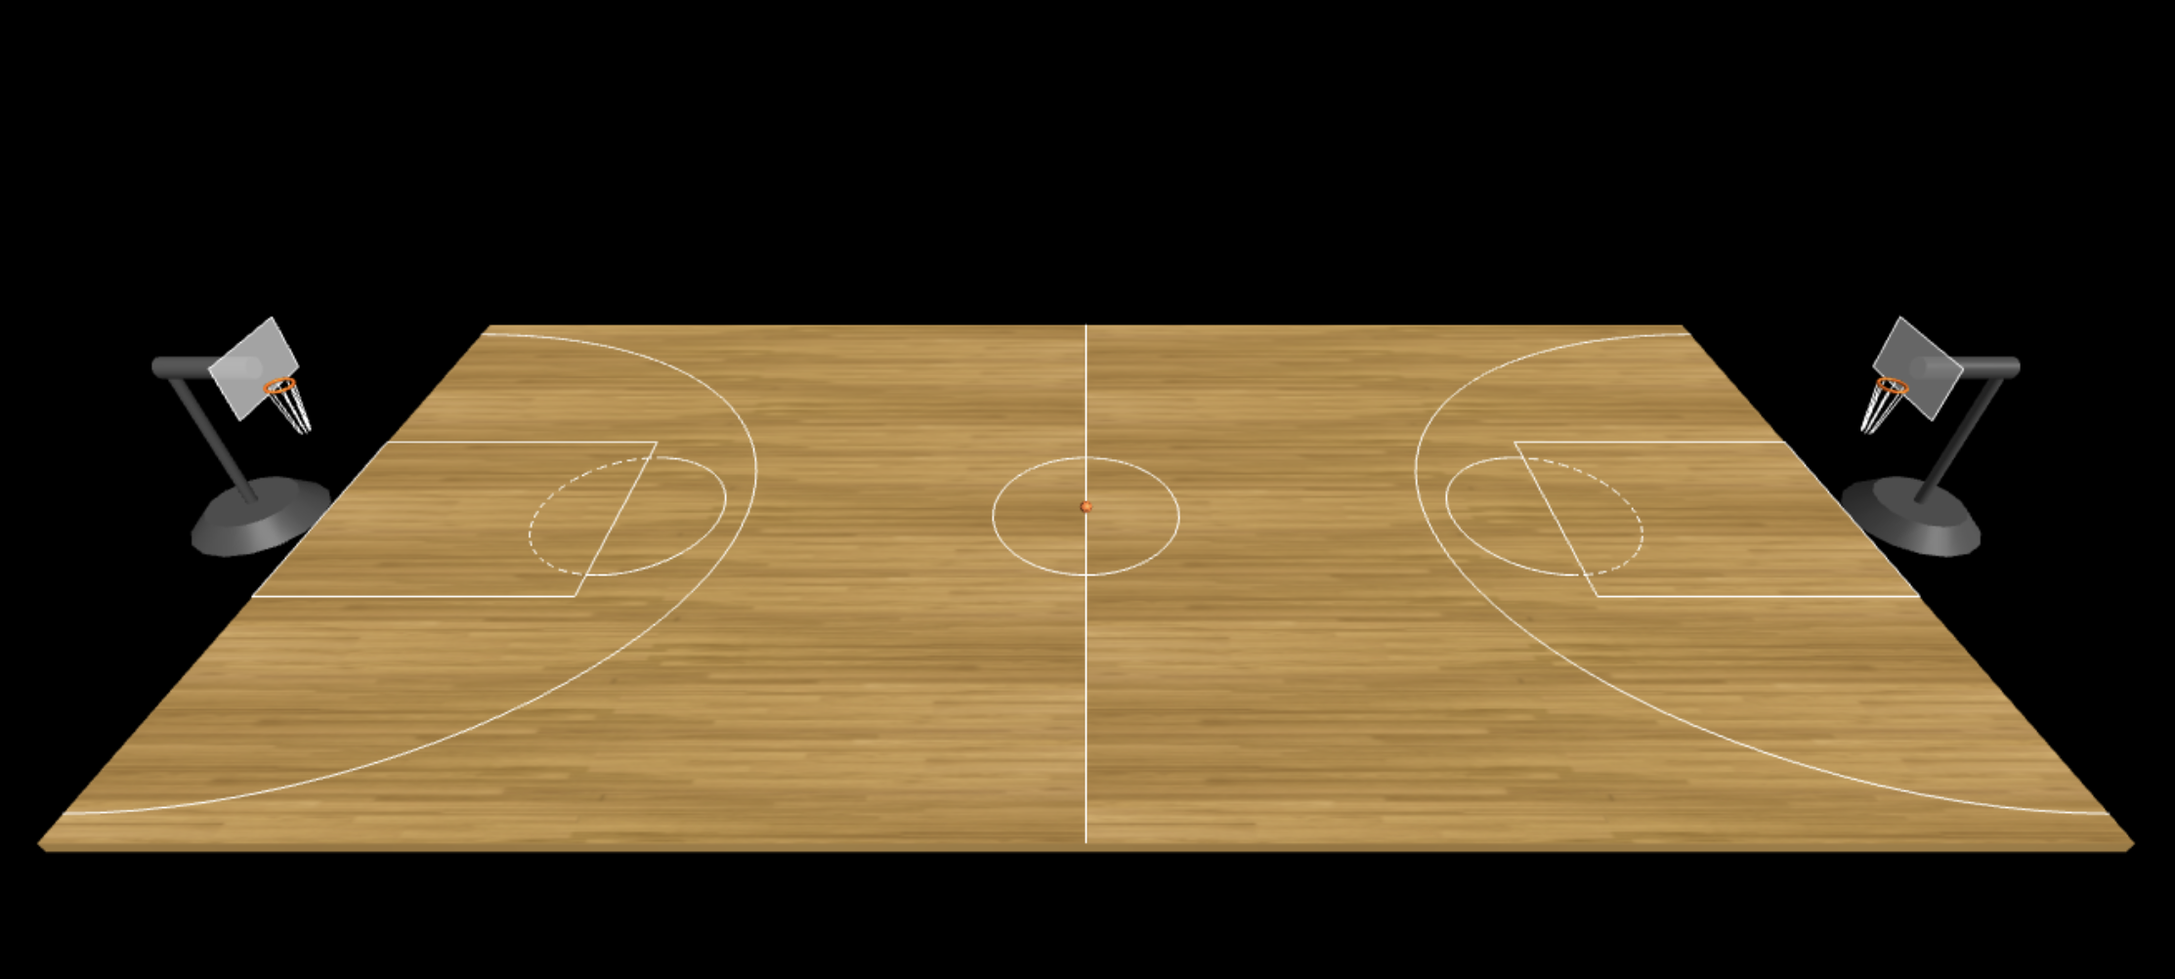
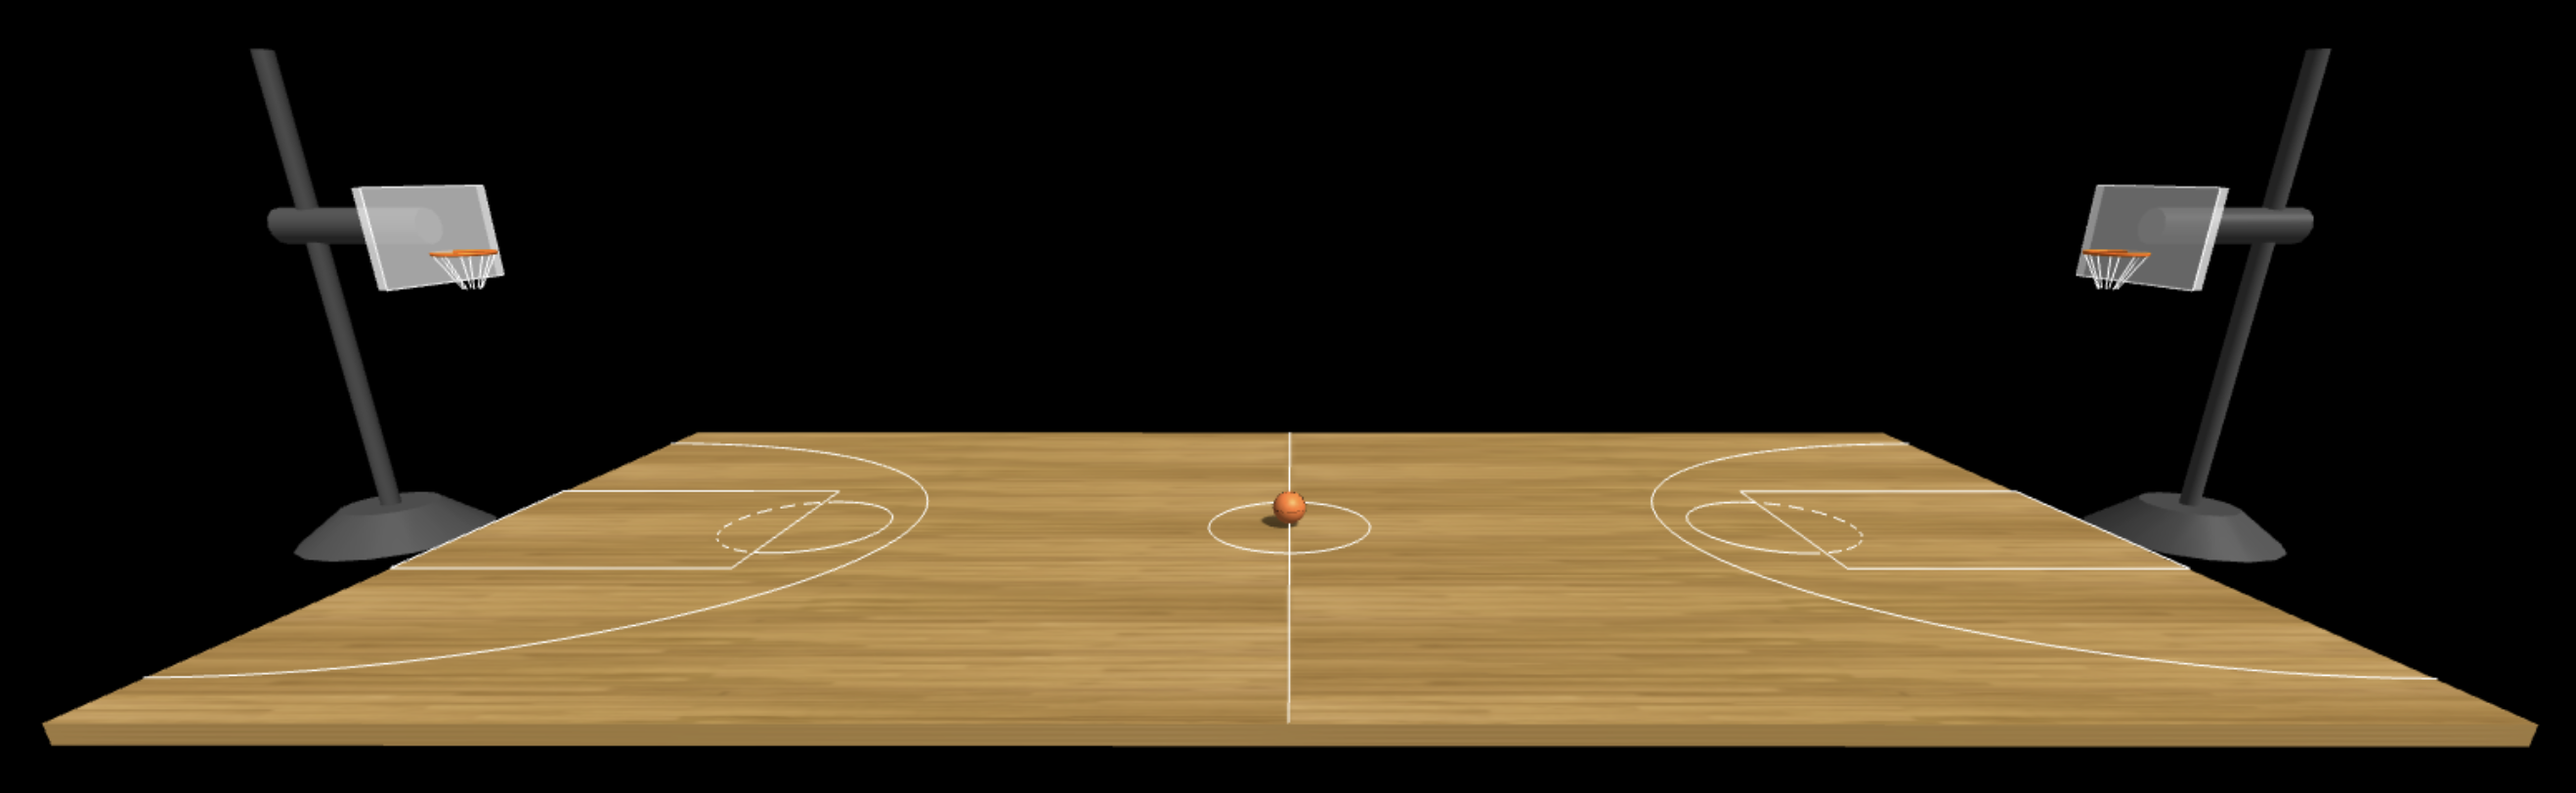
updated code

diff --git a/src/hw5.js b/src/hw5.js
@@ -41,7 +41,7 @@ function degrees_to_radians(degrees) {
 // Create basketball court
 function createBasketballCourt() {
   // Court floor - just a simple brown surface
-  const courtGeometry = new THREE.BoxGeometry(30, 0.2, 15);
+  const courtGeometry = new THREE.BoxGeometry(20, 0.2, 10);
   // const courtMaterial = new THREE.MeshPhongMaterial({ 
   //   color: 0xc68642,  // Brown wood color
   //   shininess: 50
@@ -61,8 +61,8 @@ function createBasketballCourt() {
   createCourtLines();
 
   // ADDING BASKETBALL HOOPS:
-  createBasketballHoop(-15, 0, 0, 'backward'); // left hook 
-  createBasketballHoop(15, 0, 0, 'forward'); // right hook 
+  createBasketballHoop(-10, 0, 0, 'backward'); // left hook 
+  createBasketballHoop(10, 0, 0, 'forward'); // right hook 
 
   // ADDING STATIC BASKETBALL 
   createStaticBasketball();
@@ -79,7 +79,7 @@ function createDetailedCourtMarkings(){
   };
 
   const createCircle = (x, z , start, end ) => {
-    const curve = new THREE.EllipseCurve(x, z, 1.83, 1.83, start, end);
+    const curve = new THREE.EllipseCurve(x, z, 1, 1, start, end);
     const points = curve.getPoints(64).map(p => new THREE.Vector3(p.x, 0.11, p.y));
     const geometry = new THREE.BufferGeometry().setFromPoints(points);
     return new THREE.Line(geometry, lineMaterial);
@@ -91,7 +91,7 @@ function createDetailedCourtMarkings(){
     dashSize: 0.2,     
     gapSize: 0.1       
     });
-    const curve = new THREE.EllipseCurve(x, z, 1.83, 1.83, start, end);
+    const curve = new THREE.EllipseCurve(x, z, 1, 1, start, end);
     const points = curve.getPoints(64).map(p => new THREE.Vector3(p.x, 0.11, p.y));
     const geometry = new THREE.BufferGeometry().setFromPoints(points);
     
@@ -102,19 +102,19 @@ function createDetailedCourtMarkings(){
 
   // LEFT SIDE (Key Area + Free Throw Circle)
   scene.add(createRectangle([
-    new THREE.Vector3(-15, 0.11, -2.4), new THREE.Vector3(-9.2, 0.11, -2.4),
-    new THREE.Vector3(-9.2, 0.11, 2.4), new THREE.Vector3(-15, 0.11, 2.4)
+    new THREE.Vector3(-10, 0.11, -1.5), new THREE.Vector3(-6.2, 0.11, -1.5),
+    new THREE.Vector3(-6.2, 0.11, 1.5), new THREE.Vector3(-10, 0.11, 1.5)
   ]));
-  scene.add(createCircle(-9, 0,-Math.PI / 2,  Math.PI / 2 ));
-  scene.add(createDashedCircle(-9,0,Math.PI / 2 , 3* Math.PI / 2 ));
+  scene.add(createCircle(-6, 0,-Math.PI / 2,  Math.PI / 2 ));
+  scene.add(createDashedCircle(-6,0,Math.PI / 2 , 3* Math.PI / 2 ));
 
   // RIGHT SIDE (Key Area + Free Throw Circle)
   scene.add(createRectangle([
-    new THREE.Vector3(15, 0.11, -2.4), new THREE.Vector3(9.2, 0.11, -2.4),
-    new THREE.Vector3(9.2, 0.11, 2.4), new THREE.Vector3(15, 0.11, 2.4)
+    new THREE.Vector3(10, 0.11, -1.5), new THREE.Vector3(6.2, 0.11, -1.5),
+    new THREE.Vector3(6.2, 0.11, 1.5), new THREE.Vector3(10, 0.11, 1.5)
   ]));
-  scene.add(createCircle(9, 0, Math.PI / 2 , 3* Math.PI / 2  ));
-  scene.add(createDashedCircle(9, 0,-Math.PI / 2,  Math.PI / 2  ));
+  scene.add(createCircle(6, 0, Math.PI / 2 , 3* Math.PI / 2  ));
+  scene.add(createDashedCircle(6, 0,-Math.PI / 2,  Math.PI / 2  ));
   
 }
 
@@ -124,7 +124,7 @@ function createCourtLines(){
     
     // CENTER LINE 
     const centerLine = new THREE.BufferGeometry().setFromPoints([
-      new THREE.Vector3(0, 0.11, -7.5), new THREE.Vector3(0, 0.11, 7.5)
+      new THREE.Vector3(0, 0.11, -5), new THREE.Vector3(0, 0.11, 5)
       ]);
     scene.add(new THREE.Line(centerLine, lineMaterial));
 
@@ -136,13 +136,13 @@ function createCourtLines(){
     };
 
     // LEFT THREE-POINT LINE
-    addEllipse(-15, 0, 8.33, 7, -Math.PI / 2, Math.PI / 2);
+    addEllipse(-10, 0, 5.33, 4.2, -Math.PI / 2, Math.PI / 2);
 
     // RIGHT THREE-POINT LINE
-    addEllipse(15, 0, 8.33, 7, Math.PI / 2, 3 * Math.PI / 2);
+    addEllipse(10, 0, 5.33, 4.2, Math.PI / 2, 3 * Math.PI / 2);
 
     // CENTER CIRCLE 
-    addEllipse(0, 0, 1.83, 1.83, 0, 2 * Math.PI);
+    addEllipse(0, 0, 1, 1, 0, 2 * Math.PI);
 
     // ADD THE NEW DETAILED MARKINGS (Bonus)
     createDetailedCourtMarkings();  
@@ -152,20 +152,20 @@ function createCourtLines(){
 function createSupportStructure(group){
   const poleMat = new THREE.MeshPhongMaterial({ color: 0x464646 });
 
-  const baseGeometry = new THREE.CylinderGeometry(0.8, 1.2, 0.4, 16);
+  const baseGeometry = new THREE.CylinderGeometry(0.5, 1, 0.4, 16);
   const base = new THREE.Mesh(baseGeometry, poleMat);
-  base.position.set(0, 0.2, -1.3);
+  base.position.set(0, 0.2, -1.1);
   base.castShadow = true;
   base.receiveShadow = true;
   group.add(base);
 
-  const pole = new THREE.Mesh(new THREE.CylinderGeometry(0.1, 0.1, 3.42, 16), poleMat);
-  pole.position.set(0, 1.71, -1.3);
+  const pole = new THREE.Mesh(new THREE.CylinderGeometry(0.1, 0.1, 5.6, 16), poleMat);
+  pole.position.set(0, 2.73, -1.1);
   pole.castShadow = true;
   group.add(pole);
 
   const arm = new THREE.Mesh(new THREE.CylinderGeometry(0.2, 0.2, 1.65, 12), poleMat);
-  arm.position.set(0, 3.42, -0.6);
+  arm.position.set(0, 3.7, -0.6);
   arm.rotation.x = degrees_to_radians(90);
   arm.castShadow = true;
   group.add(arm);
@@ -175,13 +175,13 @@ function createBasketballHoop(x, y, z, facing){
   const group = new THREE.Group();
   createSupportStructure(group);
 
-  const backboard = new THREE.Mesh(new THREE.PlaneGeometry(1.8, 1.05), new THREE.MeshPhongMaterial({
+  const backboard = new THREE.Mesh(new THREE.BoxGeometry(1.8, 1.05, 0.1), new THREE.MeshPhongMaterial({
     color: 0xffffff,
     transparent: true,
     opacity: 0.8,
     side: THREE.DoubleSide
   }));
-  backboard.position.set(0, 3.42, 0.25);
+  backboard.position.set(0, 3.6, 0.26);
   backboard.castShadow = true;
   backboard.receiveShadow = true;
   group.add(backboard);
@@ -189,13 +189,13 @@ function createBasketballHoop(x, y, z, facing){
   // BRANDED BACKBOARD (Bonus): 
   const outline = [
     [-0.9, 0.525], [0.9, 0.525], [0.9, -0.525], [-0.9, -0.525]
-  ].map(([x, y]) => new THREE.Vector3(x, 3.42 + y, 0.26));
+  ].map(([x, y]) => new THREE.Vector3(x, 3.6 + y, 0.3));
   const box = new THREE.LineLoop(new THREE.BufferGeometry().setFromPoints(outline), new THREE.LineBasicMaterial({ color: 0xffffff }));
   group.add(box);
   // ---- 
 
-  const rim = new THREE.Mesh(new THREE.TorusGeometry(0.225, 0.03, 8, 32), new THREE.MeshPhongMaterial({ color: 0xff6600 }));
-  rim.position.set(0, 3.05, 0.5);
+  const rim = new THREE.Mesh(new THREE.TorusGeometry(0.3, 0.02, 8, 32), new THREE.MeshPhongMaterial({ color: 0xff6600 }));
+  rim.position.set(0, 3.4, 0.55);
   rim.rotation.x = degrees_to_radians(90);
   rim.castShadow = true;
   group.add(rim);
@@ -203,8 +203,8 @@ function createBasketballHoop(x, y, z, facing){
   const netMat = new THREE.LineBasicMaterial({ color: 0xffffff });
   for (let i = 0; i < 8; i++) {
     const a = (i / 8) * Math.PI * 2;
-    const p1 = new THREE.Vector3(Math.cos(a) * 0.225, 3.05, Math.sin(a) * 0.225 + 0.5);
-    const p2 = new THREE.Vector3(Math.cos(a) * 0.09, 2.05, Math.sin(a) * 0.09 + 0.5);
+    const p1 = new THREE.Vector3(Math.cos(a) * 0.3, 3.4, Math.sin(a) * 0.3 + 0.55);
+    const p2 = new THREE.Vector3(Math.cos(a) * 0.09, 2.8, Math.sin(a) * 0.09 + 0.55);
     const geom = new THREE.BufferGeometry().setFromPoints([p1, p2]);
     group.add(new THREE.Line(geom, netMat));
   }
@@ -225,7 +225,7 @@ function createBasketballHoop(x, y, z, facing){
 
 // === BASKETBALL OBJECT ===
 function createSeamRing(angleOffset = 0, isVertical = true) {
-  const points = [], segments = 128, r = 0.121; 
+  const points = [], segments = 128, r = 0.201; 
   for (let i = 0; i <= segments; i++) {
     const t = (i / segments) * Math.PI * 2;
     const x = isVertical ? Math.sin(t) * Math.cos(angleOffset) * r : Math.cos(t) * r;
@@ -242,10 +242,12 @@ function createSeamRing(angleOffset = 0, isVertical = true) {
 function createStaticBasketball(){
   const group = new THREE.Group();
 
-  const ball = new THREE.Mesh(new THREE.SphereGeometry(0.12, 32, 32), new THREE.MeshPhongMaterial({ 
+  const ball = new THREE.Mesh(new THREE.SphereGeometry(0.2, 32, 32), new THREE.MeshPhongMaterial({ 
     map: basketballTexture,  // Apply the image texture
     shininess: 30 
   }))  
+
+  ball.castShadow = true;
   ball.receiveShadow = true;
   group.add(ball);
 
@@ -255,7 +257,7 @@ function createStaticBasketball(){
     group.add(createSeamRing(angle, true));
   }
 
-  group.position.set(0, 0.25, 0);
+  group.position.set(0, 0.35, 0);
   scene.add(group);
     
 }

diff --git a/README.md b/README.md
@@ -24,14 +24,14 @@
 
 ## Features Implemented
 **Must-Have Features:**
-- 3D Basketball Court: Full court rendered using Three.js with proper dimensions (30m x 15m)
+- 3D Basketball Court: Full court rendered using Three.js with proper dimensions (20x10 - 2:1 relation)
 - Basketball Hoops: Two complete basketball hoops with:
     - Support structures with cylindrical bases for stability
-    - Proper rim dimensions (45cm diameter) at correct height (3.05m)
+    - Proper rim dimensions at correct height (10 feet)
     - Backboards with correct proportions (1.8m x 1.05m)
     - Realistic net rendering with 8 individual strands
 - Static Basketball: Detailed basketball object with:
-    - Proper size (24cm diameter)
+    - Proper size 
     - Realistic seam lines positioned correctly on ball surface
 - Lighting and shadows for realism
 - Court Markings: Complete court line system including:
